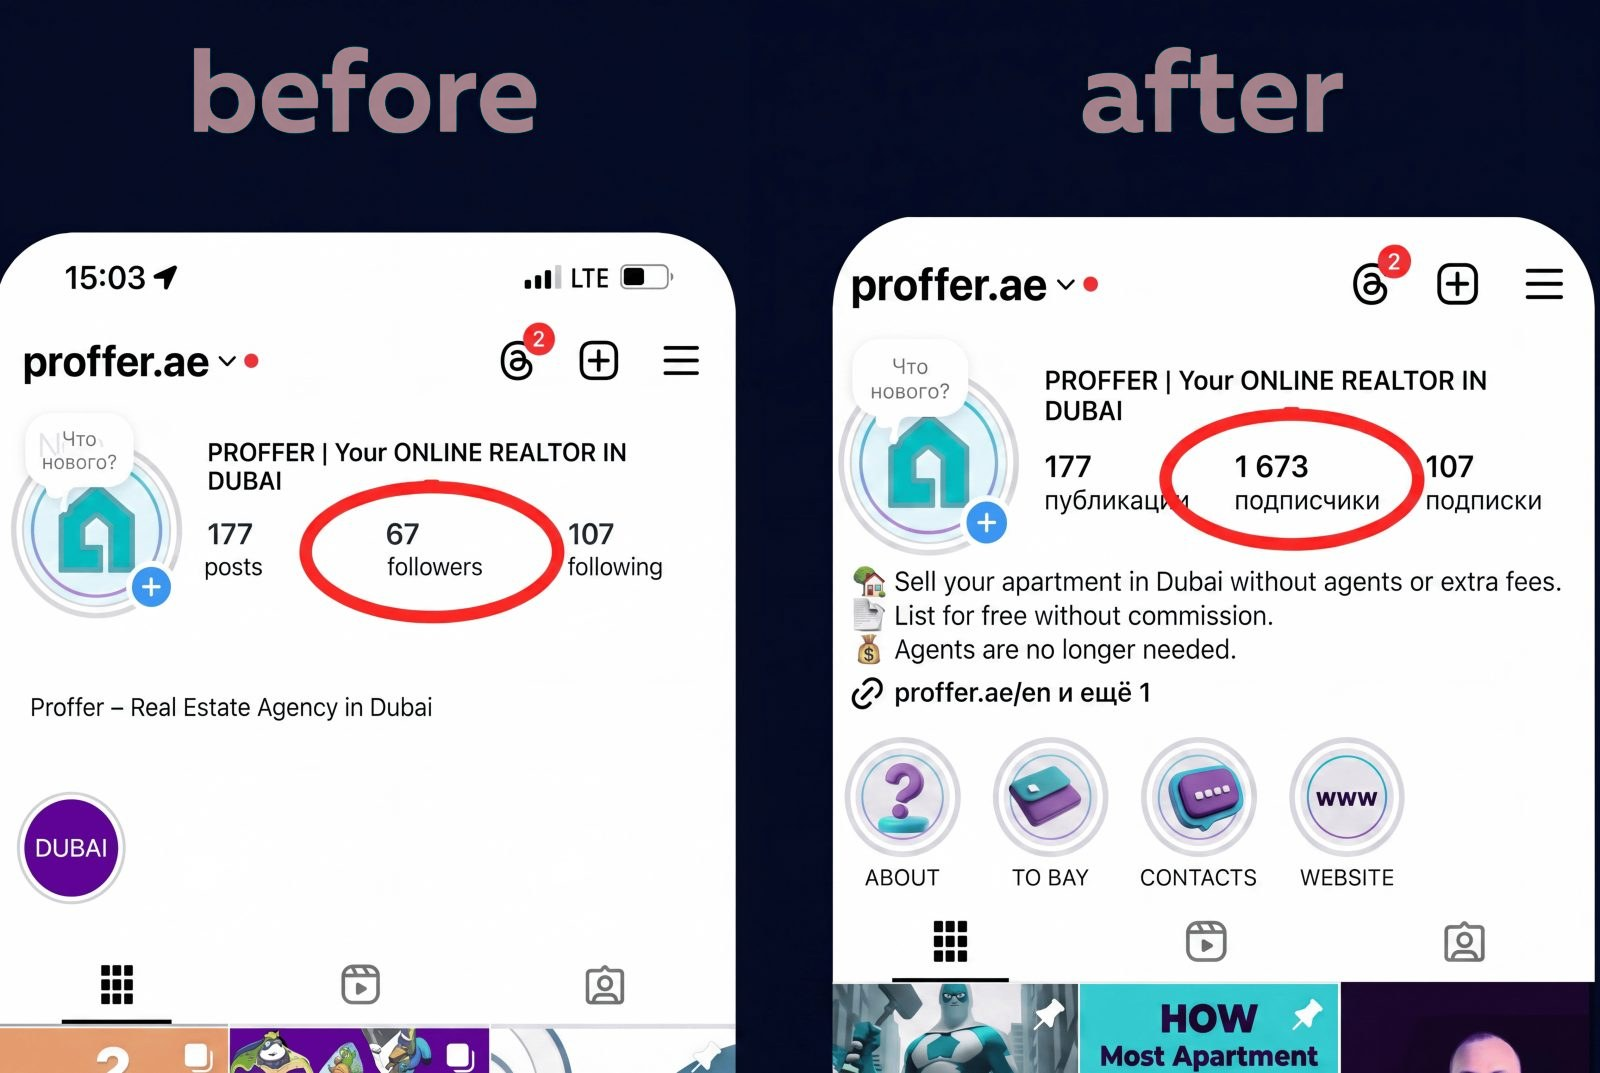
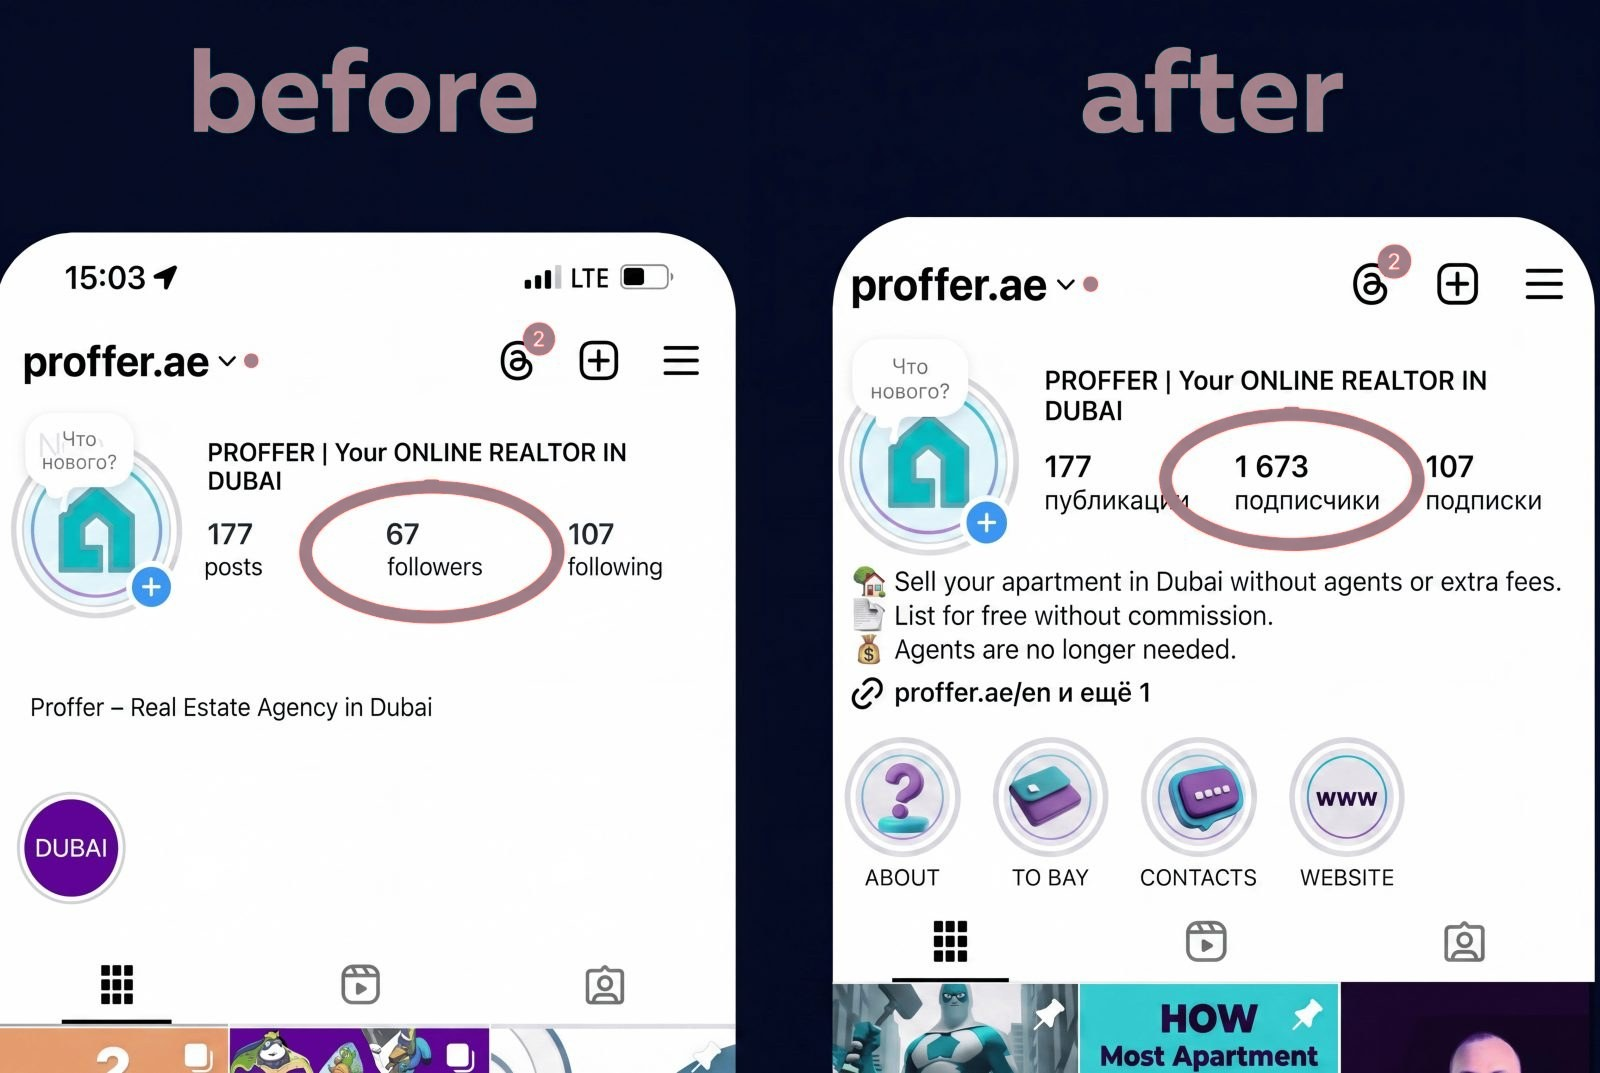
Proffer case: fix follower figures to 67 → 1,673, recolor marker circles to site rose
Screenshot circles said 67/1,673 while the accent pair said 68/1,600 —
the screenshot is the source of truth. Red markers on proffer.jpg moved
to the rose accent #D6A8B4.

diff --git a/index.html b/index.html
@@ -107,7 +107,7 @@
     <div class="cases">
       <article class="case rise">
         <button class="case-media shot" type="button" data-cap="Proffer.ae — profile before and after">
-          <img src="img/proffer.jpg" data-img="proffer" width="800" height="536" alt="Proffer.ae Instagram profile before and after: 68 followers grew to 1,600" loading="lazy">
+          <img src="img/proffer.jpg" data-img="proffer" width="800" height="536" alt="Proffer.ae Instagram profile before and after: 67 followers grew to 1,673" loading="lazy">
         </button>
         <div>
           <span class="tag" data-i18n="c1.tag">Online real estate platform · Dubai</span>
@@ -118,7 +118,7 @@
             <li data-i18n="c1.l3">AI mascot “Proffer-man” created as brand identity</li>
             <li data-i18n="c1.l4">Facebook Ads funnel: 680 leads at 80 AED each</li>
           </ul>
-          <div class="ba"><span class="from" data-num="c1from">68</span><span class="arr">→</span><span class="to" data-num="c1to" data-count>1,600</span><small data-i18n="c1.cap">followers, organic</small></div>
+          <div class="ba"><span class="from" data-num="c1from">67</span><span class="arr">→</span><span class="to" data-num="c1to" data-count>1,673</span><small data-i18n="c1.cap">followers, organic</small></div>
         </div>
       </article>
       <article class="case rise">
